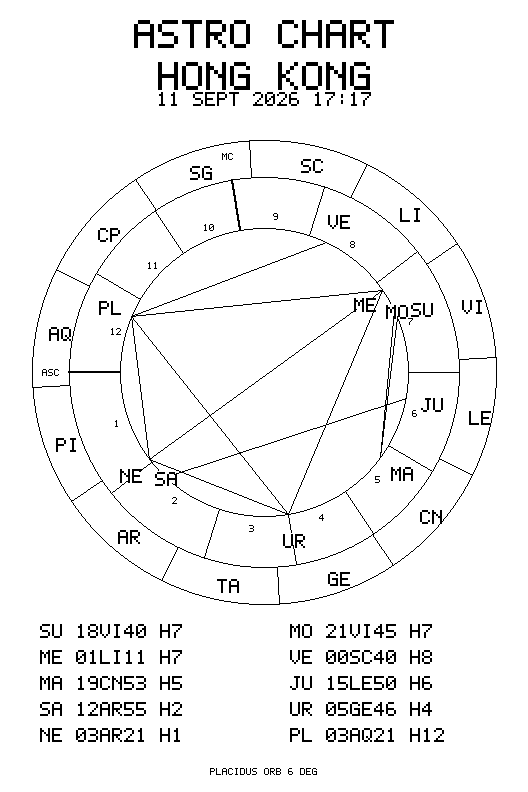
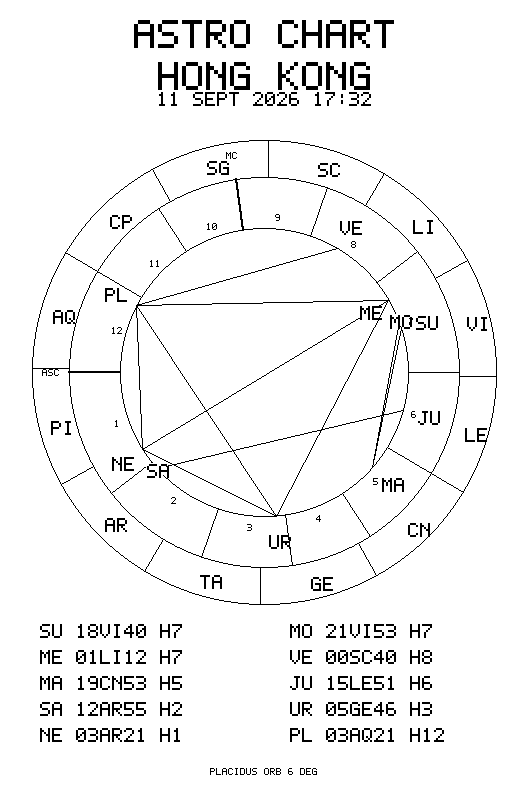
fix: name every planet, and keep the astro wheel off its header
Three faults the landscape renders exposed.

The astro wheel was sized from the canvas height alone, so it started at
y=60 and ran through the date line at y=72. Size it from the band below
the header instead. Its positions table was inset 150px from the right
edge, four short of the widest row: any two-digit house clipped "H12".

The solar legend named Mercury through Mars but collapsed the outer
planets into a bare "JU SA UR NE", so a reader could expand ME and not
JU. There was room for all of them. Pluto was drawn on the chart but
named in neither orientation's legend; it is now in both.

Claude-Session: https://claude.ai/code/session_017RH7iJ888bk9azmQDYduaR

diff --git a/examples/cloudflare-dashboard-worker.js b/examples/cloudflare-dashboard-worker.js
@@ -1486,11 +1486,13 @@ function renderSolarBmp(now, timeZone, orientation, device) {
     fillRect(canvas, 20, compact ? 82 : 90, WIDTH - 40, 3);
     drawSolarChart(canvas, planets, 255, compact ? 266 : 288, compact ? 166 : 188);
     drawTextCenteredInBox(canvas, "HELIOCENTRIC", 500, WIDTH - 520, compact ? 132 : 146, 4);
-    drawTextCenteredInBox(canvas, "ME MERCURY", 500, WIDTH - 520, compact ? 198 : 218, 2);
-    drawTextCenteredInBox(canvas, "VE VENUS", 500, WIDTH - 520, compact ? 228 : 251, 2);
-    drawTextCenteredInBox(canvas, "EA EARTH", 500, WIDTH - 520, compact ? 258 : 284, 2);
-    drawTextCenteredInBox(canvas, "MA MARS", 500, WIDTH - 520, compact ? 288 : 317, 2);
-    drawTextCenteredInBox(canvas, "JU SA UR NE", 500, WIDTH - 520, compact ? 330 : 359, 2);
+    // Every body named in full: the outer four used to share one line of bare
+    // abbreviations, so the reader could expand ME but not JU.
+    const key = ["ME MERCURY", "VE VENUS", "EA EARTH", "MA MARS", "JU JUPITER",
+                 "SA SATURN", "UR URANUS", "NE NEPTUNE", "PL PLUTO"];
+    key.forEach((entry, index) => {
+      drawTextCenteredInBox(canvas, entry, 500, WIDTH - 520, (compact ? 172 : 190) + index * (compact ? 28 : 30), 2);
+    });
     drawTextCentered(canvas, "POSITIONS JPL APPROXIMATION", HEIGHT - 18, 1);
     return makeBmp(canvas);
   }
@@ -1501,7 +1503,7 @@ function renderSolarBmp(now, timeZone, orientation, device) {
   drawSolarChart(canvas, planets, Math.floor(WIDTH / 2), 350, 210);
   drawTextCentered(canvas, "HELIOCENTRIC PLANET POSITIONS", 590, 3, WIDTH - 24);
   drawTextCentered(canvas, "ME MERCURY  VE VENUS  EA EARTH  MA MARS", 640, 1);
-  drawTextCentered(canvas, "JU JUPITER  SA SATURN  UR URANUS  NE NEPTUNE", 664, 1);
+  drawTextCentered(canvas, "JU JUPITER  SA SATURN  UR URANUS  NE NEPTUNE  PL PLUTO", 664, 1);
   drawTextCentered(canvas, "POSITIONS JPL APPROXIMATION", HEIGHT - 19, 1);
   return makeBmp(canvas);
 }
@@ -1728,9 +1730,14 @@ function renderAstroBmp(chart, orientation, device) {
   const canvas = new Uint8Array(PIXEL_ROW_BYTES * HEIGHT);
   const landscape = orientation === "landscape";
 
+  // Landscape stacks three header lines down to y=86, so the wheel takes the
+  // band between that and the bottom margin. Sizing it from HEIGHT alone drew
+  // it straight through the date line.
+  const landscapeTop = 96;
+  const landscapeBottom = HEIGHT - 8;
   const cx = landscape ? Math.floor(HEIGHT / 2) + 10 : Math.floor(WIDTH / 2);
-  const cy = landscape ? Math.floor(HEIGHT / 2) + 20 : 372;
-  const outer = landscape ? Math.floor(HEIGHT / 2) - 40 : 232;
+  const cy = landscape ? Math.floor((landscapeTop + landscapeBottom) / 2) : 372;
+  const outer = landscape ? Math.floor((landscapeBottom - landscapeTop) / 2) : 232;
   const signInner = Math.round(outer * 0.84);
   const houseInner = Math.round(outer * 0.62);
   const bodyRadius = Math.round(outer * 0.73);
@@ -1802,12 +1809,15 @@ function renderAstroBmp(chart, orientation, device) {
   // Positions table.
   const rows = chart.bodies.map((b) => `${b.name} ${formatPosition(b.longitude)} H${chart.houses[b.name]}`);
   if (landscape) {
+    // A two-digit house takes the widest row to 154px, which ran off the right
+    // edge from the old inset.
+    const tableX = WIDTH - 165;
     let y = 100;
     for (const row of rows) {
-      drawText(canvas, row, WIDTH - 150, y, 2);
+      drawText(canvas, row, tableX, y, 2);
       y += 26;
     }
-    drawText(canvas, chart.system, WIDTH - 150, y + 8, 1);
+    drawText(canvas, chart.system, tableX, y + 8, 1);
   } else {
     const top = cy + outer + 20;
     for (let i = 0; i < rows.length; i++) {
